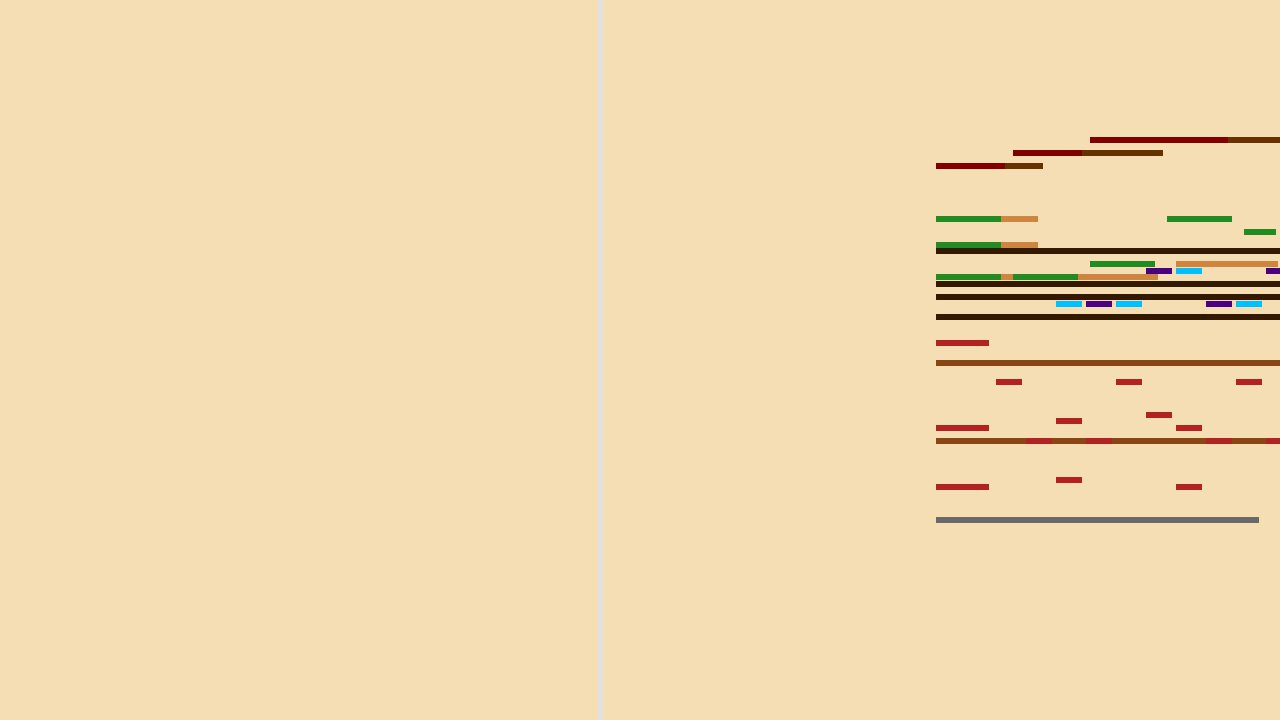
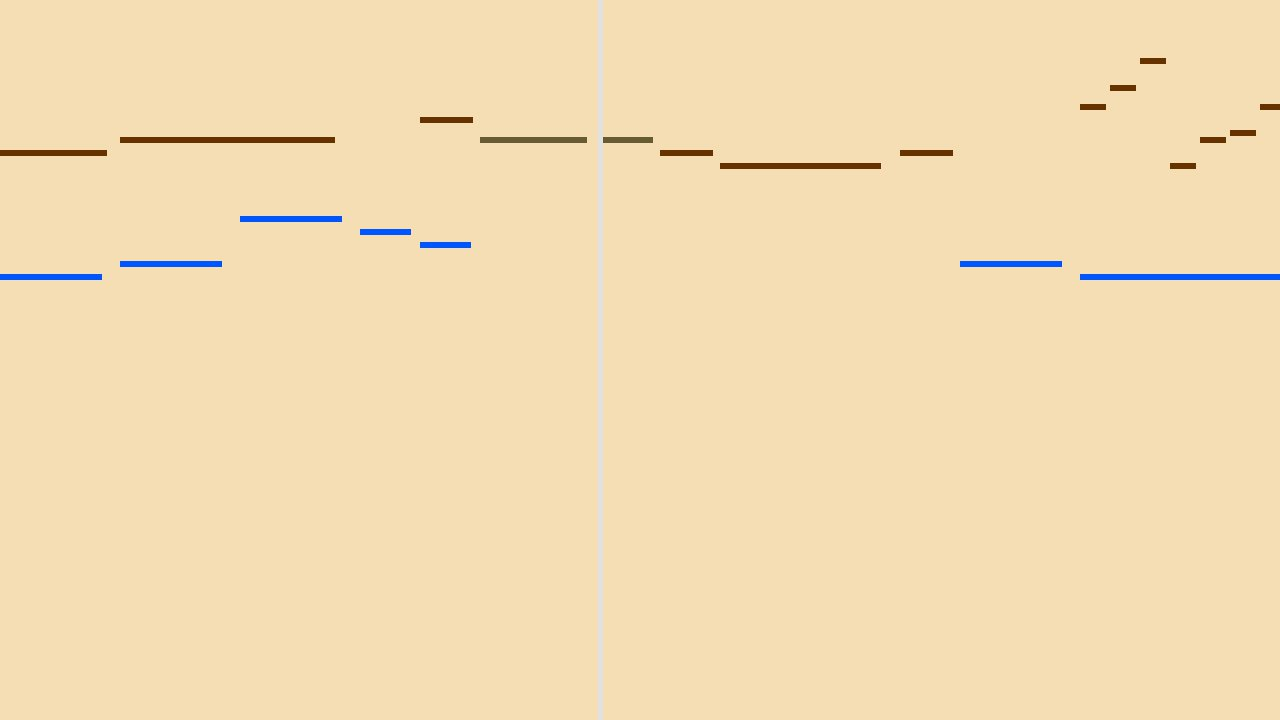
Preview Controls and Slider

diff --git a/app.py b/app.py
@@ -3,8 +3,8 @@ import os
 import shutil
 from PySide6 import QtCore, QtGui, QtWidgets
 from PySide6.QtCore import Qt
-from PySide6.QtWidgets import QApplication, QMainWindow, QMenu, QWidget,QLabel,QDialog, QLineEdit, QHBoxLayout, QVBoxLayout, QGridLayout, QToolBar, QPushButton, QFileDialog
-from PySide6.QtGui import QPalette, QColor, QAction
+from PySide6.QtWidgets import QApplication, QMainWindow, QMenu, QSlider, QWidget,QLabel,QDialog, QLineEdit, QHBoxLayout, QVBoxLayout, QGridLayout, QToolBar, QPushButton, QFileDialog
+from PySide6.QtGui import QPalette, QColor, QAction, QPixmap, QImage
 from app_logic import AppLogic
 
 import helper
@@ -62,26 +62,43 @@ class MainWindow(QMainWindow):
         self.scroll_area.setWidget(self.instrument_scroll_container)
         
 
-        # the other layouts in preview panel
+        # Preview_layout holds the live player and player controls
         self.preview_layout = QVBoxLayout()
+
+        self.preview_screen = Preview_Screen()
+        self.preview_slider = Preview_Slider()
+
+        self.preview_layout.addWidget(self.preview_screen)
+        self.preview_layout.addWidget(self.preview_slider)
+
+        # Control Layout holds easy access to more general song controls
         self.control_layout = QHBoxLayout()
         
-
+        # BG COLOUR BUTTON
         self.bg_colour_button=QPushButton("bg colour")
-    
         self.control_layout.addWidget(self.bg_colour_button)
-
+        
+        # GENERATE BUTTON
         self.generate_button = QPushButton("generate")
-        
         self.control_layout.addWidget(self.generate_button)
-        self.preview_panel.addLayout(self.preview_layout)
-        self.preview_panel.addLayout(self.control_layout)
 
-        self.preview_layout.addWidget(Color('red'))
-
-        self.preview_panel.addLayout(self.preview_layout)
+        # CLEAR BUTTON
+        self.clear_instruments_button = QPushButton("clear")
+        self.clear_instruments_button.clicked.connect(self.clear_instruments)
+        self.control_layout.addWidget(self.clear_instruments_button)
         
+        ###################################################################
+
+        self.preview_panel.addLayout(self.preview_layout)
         self.preview_panel.addLayout(self.control_layout)
+
+        # self.preview_layout.addWidget(Color('red'))
+        # self.preview_layout.addWidget(Color('blue'))
+
+
+        self.preview_panel.addLayout(self.preview_layout)
+        self.preview_panel.addLayout(self.control_layout)
+
         # self.preview_panel.setLayout(self.preview_panel)
 
         # self.instruments_panel.addWidget(Color('blue'))
@@ -120,9 +137,12 @@ class MainWindow(QMainWindow):
         
         if self.current_project == "":
             self.current_project = AppLogic(destination_path)
+        elif self.current_project.midi_data == None:
+            self.current_project = AppLogic(destination_path)
         else:
             self.current_project.merge_midi(destination_path)
             self.generate_button.clicked.disconnect()
+            
         self.current_project.process_midi()
         
         '''
@@ -146,13 +166,32 @@ class MainWindow(QMainWindow):
         self.bg_colour_widget = Colour_Widget(self.current_project)
         self.bg_colour_button.clicked.connect(lambda: self.bg_colour_widget.show_colour_widget(self.instrument_scroll_container))
         
-        # self.scroll_area.setWidget(self.instrument_scroll_container)
+        
+        self.preview_screen.update_frame(self.current_project.generate_frame(30))
+
+        self.preview_slider.valueChanged.connect(lambda pos:
+            self.preview_screen.update_frame(
+                self.current_project.generate_frame(pos),
+             
+            )
+        )
         
         file_opened = True
-        # self.current_project.generate_vid()
-        # self.instruments_panel.update()    
-        # self.setLayout(self.instruments_panel)
-            # self.instruments_panel.addWidget(Color('red'))
+    
+
+  
+
+    def clear_instruments(self):
+
+        for i in reversed(range(self.instruments_panel.count())):
+            print(i)
+            widget = self.instruments_panel.itemAt(i).widget()
+            if widget:
+                widget.deleteLater()
+                print("deleted")
+
+        self.current_project.reset()
+
 '''
 instrument_wrapper <- Name label widget + button_wrapper
 
@@ -263,11 +302,7 @@ class Instrument(QWidget):
         else:
             print("can't move up")
 
-
-
-        
-    
-    
+ 
     def move_down(self):
         parent_widget = self.parentWidget()
         parent_layout = parent_widget.layout()
@@ -303,9 +338,61 @@ class Instrument(QWidget):
         
         pass
         
+import numpy as np
+class Preview_Screen(QLabel):
+    def __init__(self, parent=None):
+        super().__init__(parent) # initializes Label object
+        self.setFixedSize(640,360)
+        self.setScaledContents(True)
+
+    def update_frame(self, raw_frame):
+        
+        raw_frame = np.transpose(raw_frame, (1, 0, 2))
+        raw_frame = np.ascontiguousarray(raw_frame, dtype=np.uint8)
+        height, width, _ = raw_frame.shape
+
+        # raw_data = np.zeros
+        # print(raw_frame[1])
+
+        # QImage(const uchar *data, int width, int height, QImage.Format format)
+        qimage = QImage(
+            raw_frame.data,
+            width, 
+            height,
+            QImage.Format_RGB888
+        )
+
+
+        # black_frame = np.zeros((233,233, 3), dtype=np.uint8)
+
+        # # Create QImage from the NumPy array
+        # qimage = QImage(
+        #     black_frame.data,
+        #    100,
+        #     200,
+        #     black_frame.strides[0],  # Bytes per line
+        #     QImage.Format_RGB888
+        # )
+
+        pixmap = QPixmap.fromImage(qimage)
+        self.setPixmap(pixmap)
 
 
 
+class Preview_Slider(QSlider):
+    def __init__(self, parent=None):
+        super().__init__(Qt.Horizontal, parent)
+        self.setMinimum(0)
+        self.setMaximum(100)
+        self.setFixedSize(300, 200)  # Set QLabel to a fixed size
+
+        self.valueChanged.connect(lambda p: self.set_slider(p)) # lambda function is a shorter way to define function without having to define one
+    
+    def set_slider(self, p):
+        self.value = p
+        
+        print(self.value)
+        
 
             
 '''
@@ -384,7 +471,7 @@ class Speed_Slider(QWidget):
         self.speed = 1
         instrument.speed = self.speed
 
-        self.speed_slider.sliderMoved.connect(lambda p: self.set_slider(p, instrument)) # lambda function to take in multipel arguments still a bit confused
+        self.speed_slider.valueChanged.connect(lambda p: self.set_slider(p, instrument)) # lambda function to take in multipel arguments still a bit confused
     
     def set_slider(self, p, instrument):
         self.speed = self.slider_values[p]

diff --git a/app_logic.py b/app_logic.py
@@ -3,6 +3,8 @@ import random
 import utils
 import vid
 import pretty_midi as pm
+import numpy as np
+
 display_width = 1280
 display_height = 720
 vid.constructor(display_width,display_height)
@@ -40,17 +42,21 @@ note_colours2 = [
 bg_colour = (220, 230, 240)
 bg_colour_2 = (245, 222, 179)
 
-
+'''Changes to do: Make applogic not dependent on midi path, only midi data'''
 class AppLogic():
 
     def __init__(self, midi_path):
         self.midi_path = midi_path
         self.midi_data = pm.PrettyMIDI(midi_path)
         self.instruments = self.midi_data.instruments
-        print(len(self.instruments))
+        # print(len(self.instruments))
         self.set_default_settings()
         self.process_midi() # processing midi
+        self.set_total_duration( max(note.end for instrument in self.instruments for note in instrument.notes)) # generator expression, gets the max val of note.end
         
+        pg.init()
+        # self.
+
     def reset(self):
         self.midi_path = ''
         self.midi_data = None
@@ -67,6 +73,8 @@ class AppLogic():
         self.note_length = note_length
     def set_bpm(self, bpm):
         self.bpm = bpm
+    def set_total_duration(self, total_duration):
+        self.total_duration = total_duration
 
     def set_instrument_colour(instrument, colour):
         pass    
@@ -207,7 +215,7 @@ class AppLogic():
             
                     # print(note.click_status)
 
-                    if rect_x < 605 and rect_x > line_x-rect_width - 500:
+                    if rect_x < line_x + 5 and rect_x > line_x-rect_width - 500:
                         if note.click_status != 4: # 4 = done clicking
 
                             if note.click_status == 3: # 3 = clicked
@@ -219,7 +227,7 @@ class AppLogic():
 
                             elif note.click_status == 2: # 2=  clicking
                                 rect_y += note.y_pos
-                                if rect_x <600-rect_width *1.2:
+                                if rect_x <line_x-rect_width *1.2:
                                     note.click_status = 3
                                     
                         
@@ -232,7 +240,7 @@ class AppLogic():
                                 
                             
                             elif note.click_status == 0: # 0 = not clicked
-                                if rect_x <= 600: 
+                                if rect_x <= line_x: 
                                     note.click_status = 1 
                                     
                     if note.click_status in [1,2,3]: # if note in process of getting clicked
@@ -268,3 +276,67 @@ class AppLogic():
         pg.quit()            # Quit Pygame
     
             
+    def generate_frame(self, stamp):
+        
+        # do some errotrapping in case pg is already running
+
+        pg.init()
+        num_pitches = 110
+        clock = pg.time.Clock()
+        # frame_screen = pg.display.set_mode((self.display_width, self.display_height))
+        frame_screen = pg.Surface((self.display_width, self.display_height))
+
+        line_x = self.line_x
+        bpm = self.bpm
+        note_length = self.note_length
+        starting_position = self.starting_position
+
+        frame_screen.fill(self.colour)
+
+        # print(f"{self.total_duration} totla duration ")
+
+        total_duration_sec = self.total_duration*60
+        current_time = (stamp/100)*total_duration_sec
+        # print(f"{current_time} is current time")
+
+
+        # multiply algo by the time stamp in percentage * total duration of song
+        position = note_length*(bpm/60) * current_time/40
+
+        # print(f"{position} POSITION")
+        for instrument in self.instruments:
+            instrument_colour = instrument.colour
+            instrument_speed = instrument.speed
+            temp_length = note_length*instrument_speed
+            
+            for note in instrument.notes:
+                start = note.start
+                end = note.end
+                pitch = note.pitch
+                velocity = note.velocity
+                note_colour = instrument_colour
+                note_tempo = bpm
+                # note properties
+                rect_width = (end-start)*temp_length * (note_tempo/60)*0.9 # - 4 or soemthing for aesthetic reasons
+                rect_height = display_height/num_pitches
+                rect_x = line_x + (starting_position-line_x)*instrument_speed+ start*temp_length * (note_tempo/60) - position*instrument_speed
+                rect_y = (num_pitches - pitch - 1) * rect_height
+            
+                if note.click_status in [1,2,3]: # if note in process of getting clicked
+                    note_colour = utils.lighten_colour(instrument_colour,0.2) # lighten the colour
+                else:
+                    note_colour = instrument_colour 
+
+                # rect_color = (204, 51, 51)  # Red color
+                rect_color = note_colour
+
+                pg.draw.rect(frame_screen, rect_color, (rect_x, rect_y, rect_width, rect_height))
+                # pg.display.update(pg.Rect(rect_x, rect_y, rect_width, rect_height))
+
+        # raw_frame = pg.image.tostring(frame_screen, "RGB")
+        raw_frame = pg.surfarray.array3d(frame_screen)
+           
+
+        return raw_frame
+
+        
